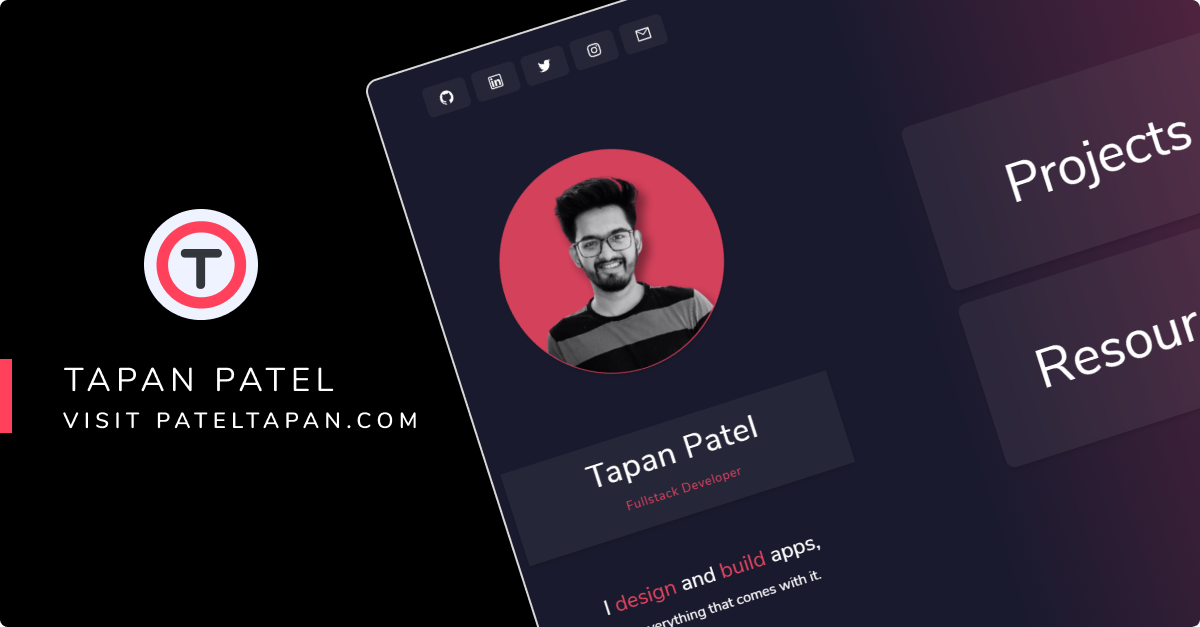
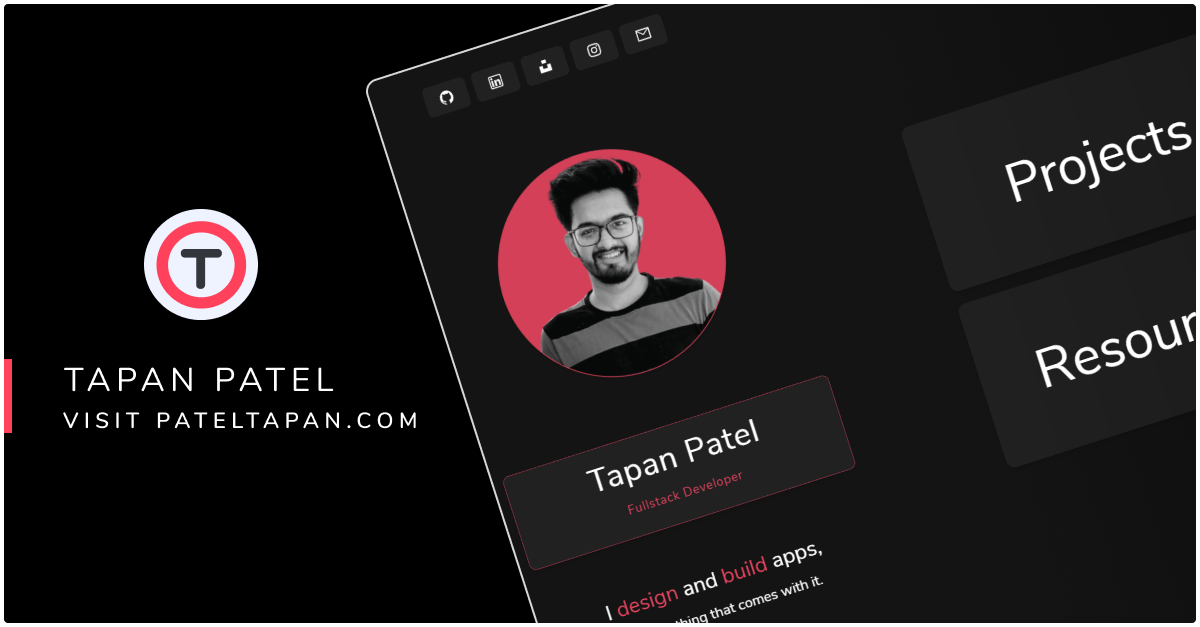
new color scheme

diff --git a/styles/styles.css b/styles/styles.css
@@ -3,7 +3,7 @@
   }
 
 .bg-test{
-  background-color: #1a1a2ee3;
+  background-color: #141414c2;
 }  
 
 .border-primary-1{
@@ -29,14 +29,16 @@
     }
   
     .hero-bg{
-      background: #1A1A2E;
-      background-image: linear-gradient(to left, rgba(195,55,100,0.7), rgba(26,26,46,0) 100%) , url("../public/assets/hero.svg");
+      background: #000000d7;
+      background-image: linear-gradient(to right,#141414 ,#0f0f0f48 ) , url("../public/assets/hero.svg");
+      /* background-image: linear-gradient(to right,#141414 ,#02010aa9 ) , url("../public/assets/hero.svg"); */
       background-repeat: no-repeat;
       background-position:right center;
+      background-size: contain;
     }
 
 .frost{
-  backdrop-filter: blur(40px);
+  backdrop-filter: blur(20px);
 }    
 
 body::-webkit-scrollbar {
@@ -62,9 +64,29 @@ body::-webkit-scrollbar-thumb {
   -webkit-tap-highlight-color: transparent;
 }
 
+.fadein{
+  animation-name: fadeIn;
+  animation-duration: 600ms;
+  animation-fill-mode: forwards;
+}
+
+@keyframes fadeIn{
+  from{
+    opacity: 0;
+  }
+
+  to{
+    opacity: 1;
+  }
+}
+
+
+
 @media only screen and (max-device-width: 768px){
   .hero-bg{
-    background-image: linear-gradient(to top, rgba(195,55,100,0.7), rgba(26, 26, 46, 0.863) 100%) , url("../public/assets/hero.svg");
-    background-position:top right;
+    /* background-image: linear-gradient(to top, rgba(195,55,100,0.7), rgba(26, 26, 46, 0.863) 100%) , url("../public/assets/hero.svg"); */
+    background-image: linear-gradient(to bottom,#141414 ,#0f0f0f48 ) , url("../public/assets/heroblur.svg");
+    background-position:bottom center;
+    background-size: cover;
   }
 }

diff --git a/pages/resources.tsx b/pages/resources.tsx
@@ -5,6 +5,7 @@ import resourceCatMap  from '@utils/resourceCategoryMapper'
 import resourceSorter  from '@utils/resourceSorter'
 import Base from "../src/Base/index"
 import PageHead from "../src/utils/HeadHelper/index"
+import { BiCreditCardFront } from "react-icons/bi"
 
 
 
@@ -20,8 +21,8 @@ const ResourcesPage = ({resources}:any)=>{
             resourceCategory.map((cat,idx)=>{
               return (
                 <div className="mb-12"  id={`${idx}`}>
-                  <h2 className="text-xl text-gray-100 "> {cat.split("_").join(" ")} </h2>
-                  <div className=" grid sm:grid-cols-1 md:grid-cols-2 gap-6  mt-6">
+                  <h2 className="text-xl text-gray-100 inline-flex items-center "> <span className="mr-2 text-secondary text-3xl"> <BiCreditCardFront /></span>  {cat.split("_").join(" ")} </h2>
+                  <div className=" grid sm:grid-cols-1 md:grid-cols-2 gap-6  mt-3">
                     {
                       resourceSorter(resources,cat).map((resource,cidx)=>{
                         return(

diff --git a/src/components/Cards/cards.tsx b/src/components/Cards/cards.tsx
@@ -13,13 +13,13 @@ interface IProps {
 
 const Card = (props:IProps)=>{
     return (
-        <div className="transition duration-200 transform hover:-translate-y-2 shadow-md  hover:shadow-sm ease-in-out flex flex-col bg-tertiary rounded-sm">
-        <div className=" bg-gray-50 h-48 sm:h-52 md:h-64 overflow-hidden">
+        <div className="transition duration-200 transform hover:-translate-y-2 shadow-md rounded-md  hover:shadow-sm ease-in-out flex flex-col bg-tertiary overflow-hidden border border-gray-700 ">
+        <div className=" bg-gray-50 h-48 sm:h-52 md:h-64 overflow-hidden ">
           <img className=" object-cover w-full h-full object-center" src={props.cover.url} alt={props.title} />
         </div>
         <div className="py-4 px-3 md:px-6 w-full">
           <div>
-            <h1 className="text-lg font-semibold capitalize text-gray-100">
+            <h1 className="text-lg font-semibold capitalize text-gray-100 h-14">
               {props.title}
             </h1>
           </div>

diff --git a/src/components/Navbar/Navbar.tsx b/src/components/Navbar/Navbar.tsx
@@ -26,7 +26,7 @@ const Navbar = ()=> {
             <div className="hidden lg:block">
               {userProfile.socialMediaProfile.map((socialMedia, idx) => {
                 return (
-                  <div id={`${idx}`} className="inline-block mx-1 text-xl">
+                  <div id={`${idx}`} className="mx-1 text-xl inline-flex items-center">
                     <IconButton
                       text={socialMedia.service}
                       link={socialMedia.link}
@@ -42,7 +42,7 @@ const Navbar = ()=> {
                
                
                
-                <div className={`${navToggle? "h-screen flex flex-col": "hidden"} lg:flex lg:flex-row `}>
+                <div className={`${navToggle? "h-screen fadein flex flex-col z-20": " hidden "} lg:flex lg:flex-row  `}>
                 {
                 navbarData.map((navData,idx)=>{
                     return (

diff --git a/tailwind.config.js b/tailwind.config.js
@@ -5,7 +5,7 @@ module.exports = {
     theme: {
       colors: {
         ...colors,
-        'primary': '#1A1A2E',
+        'primary': '#141414',
         'tertiary': 'rgba(196, 196, 196, 0.07)',
         'secondary':'#E94560',
         'hash': 'rgba(233, 69, 96, 0.7)',

diff --git a/styles/blog.module.scss b/styles/blog.module.scss
@@ -95,7 +95,7 @@
     pre{
         margin: 12px 12px;
         border-radius: 6px;
-        background-color: #1a1a2ee3;
+        background-color: #141414;
 
 
         code{
